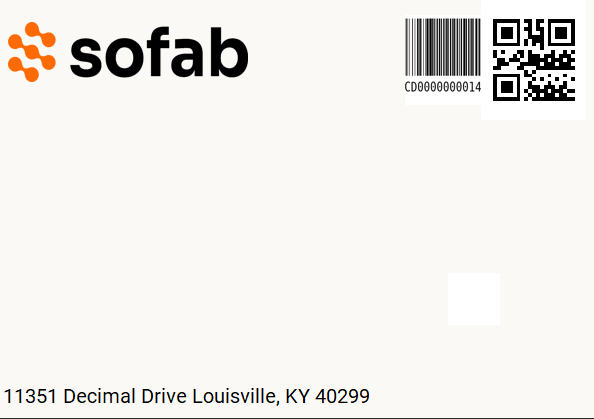
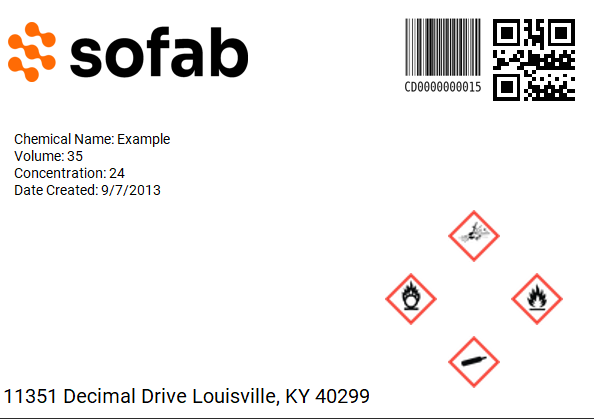
Edit PDF size

diff --git a/src/pdfcreator.py b/src/pdfcreator.py
@@ -74,7 +74,7 @@ class PDFCreator(ctk.CTkFrame):
 
         self.label_window = customtkinter.CTkFrame(
                     self,
-                    fg_color="#FAF9F6", 
+                    fg_color="white", 
                     corner_radius=0
         )  # Create a frame to hold the generated label
         self.label_window.grid(row=2, column=2, sticky="w", padx=10, pady=10)
@@ -194,7 +194,7 @@ class PDFCreator(ctk.CTkFrame):
                     d_scaled_font_size = 4
                 d_t_font.configure(size=d_scaled_font_size)
                 self.d_textbox.configure(font=d_t_font)
-                print(f"(Print Screen Details Box) New Font Size: {d_scaled_font_size}")
+                #print(f"(Print Screen Details Box) New Font Size: {d_scaled_font_size}")
 
 
 
@@ -220,7 +220,7 @@ class PDFCreator(ctk.CTkFrame):
                     h_scaled_font_size = 4
                 h_t_font.configure(size=h_scaled_font_size)
                 self.h_textbox.configure(font=h_t_font)
-                print(f"(Print Screen Hazards Box) New Font Size: {h_scaled_font_size}")
+                #print(f"(Print Screen Hazards Box) New Font Size: {h_scaled_font_size}")
         
         
         
@@ -388,8 +388,9 @@ class PDFCreator(ctk.CTkFrame):
         tmp_png = "preview_frame_output.png"
         try:
             self.capture_widget_as_image(frame, tmp_png)
-            self.create_pdf_letter(tmp_png, self.sheet_count, self.sheet_grid,f"label{self.print_count}_letter.pdf")
-            self.create_pdf_a4(tmp_png, self.sheet_count, self.sheet_grid,f"label{self.print_count}_a4.pdf")
+            #self.create_pdf_letter(tmp_png, self.sheet_count, self.sheet_grid,f"label{self.print_count}_letter.pdf")
+            #self.create_pdf_a4(tmp_png, self.sheet_count, self.sheet_grid,f"label{self.print_count}_a4.pdf")
+            self.capture_widget_as_pdf(frame)
             self.print_count += 1
             #os.remove(tmp_png)
             return (f"label{self.print_count}_letter.pdf",f"label{self.print_count}_a4.pdf")
@@ -413,6 +414,39 @@ class PDFCreator(ctk.CTkFrame):
         new_image.save(filename)
         #print("tmp png created")
     
+    def capture_widget_as_pdf(self, widget, pdf_filename="widget_capture.pdf"):
+        x = widget.winfo_rootx()
+        y = widget.winfo_rooty()
+        width = widget.winfo_width()
+        height = widget.winfo_height()
+
+        img = ImageGrab.grab(bbox=(x, y, x + width, y + height))
+        img = img.convert("RGB")
+
+        img_width, img_height = img.size
+
+        #page_width, page_height = landscape(A4)  # Landscape A4 size (842.0 x 595.276)
+        page_width, page_height = (152.4,101.6)
+
+        c = canvas.Canvas(pdf_filename, pagesize=(page_width, page_height))
+
+        scale_factor_width = page_width / img_width
+        scale_factor_height = page_height / img_height
+
+        scale_factor = min(scale_factor_width, scale_factor_height)
+
+        new_width = img_width * scale_factor
+        new_height = img_height * scale_factor
+
+        x_offset = (page_width - new_width) / 2
+        y_offset = (page_height - new_height) / 2
+
+        img.save("temp_widget_image.png")
+        c.drawImage("temp_widget_image.png", x_offset, y_offset, width=new_width, height=new_height)
+        c.save()
+
+        os.remove("temp_widget_image.png")
+
     def create_pdf_letter(self,image_path, sheet_count, sheet_grid, pdf_filename="output.pdf"):
         page_width, page_height = letter
 
@@ -493,3 +527,4 @@ class PDFCreator(ctk.CTkFrame):
             c.drawImage(image_path, x_offset, y_offset, width=new_width, height=new_height)
 
         c.save()
+    
